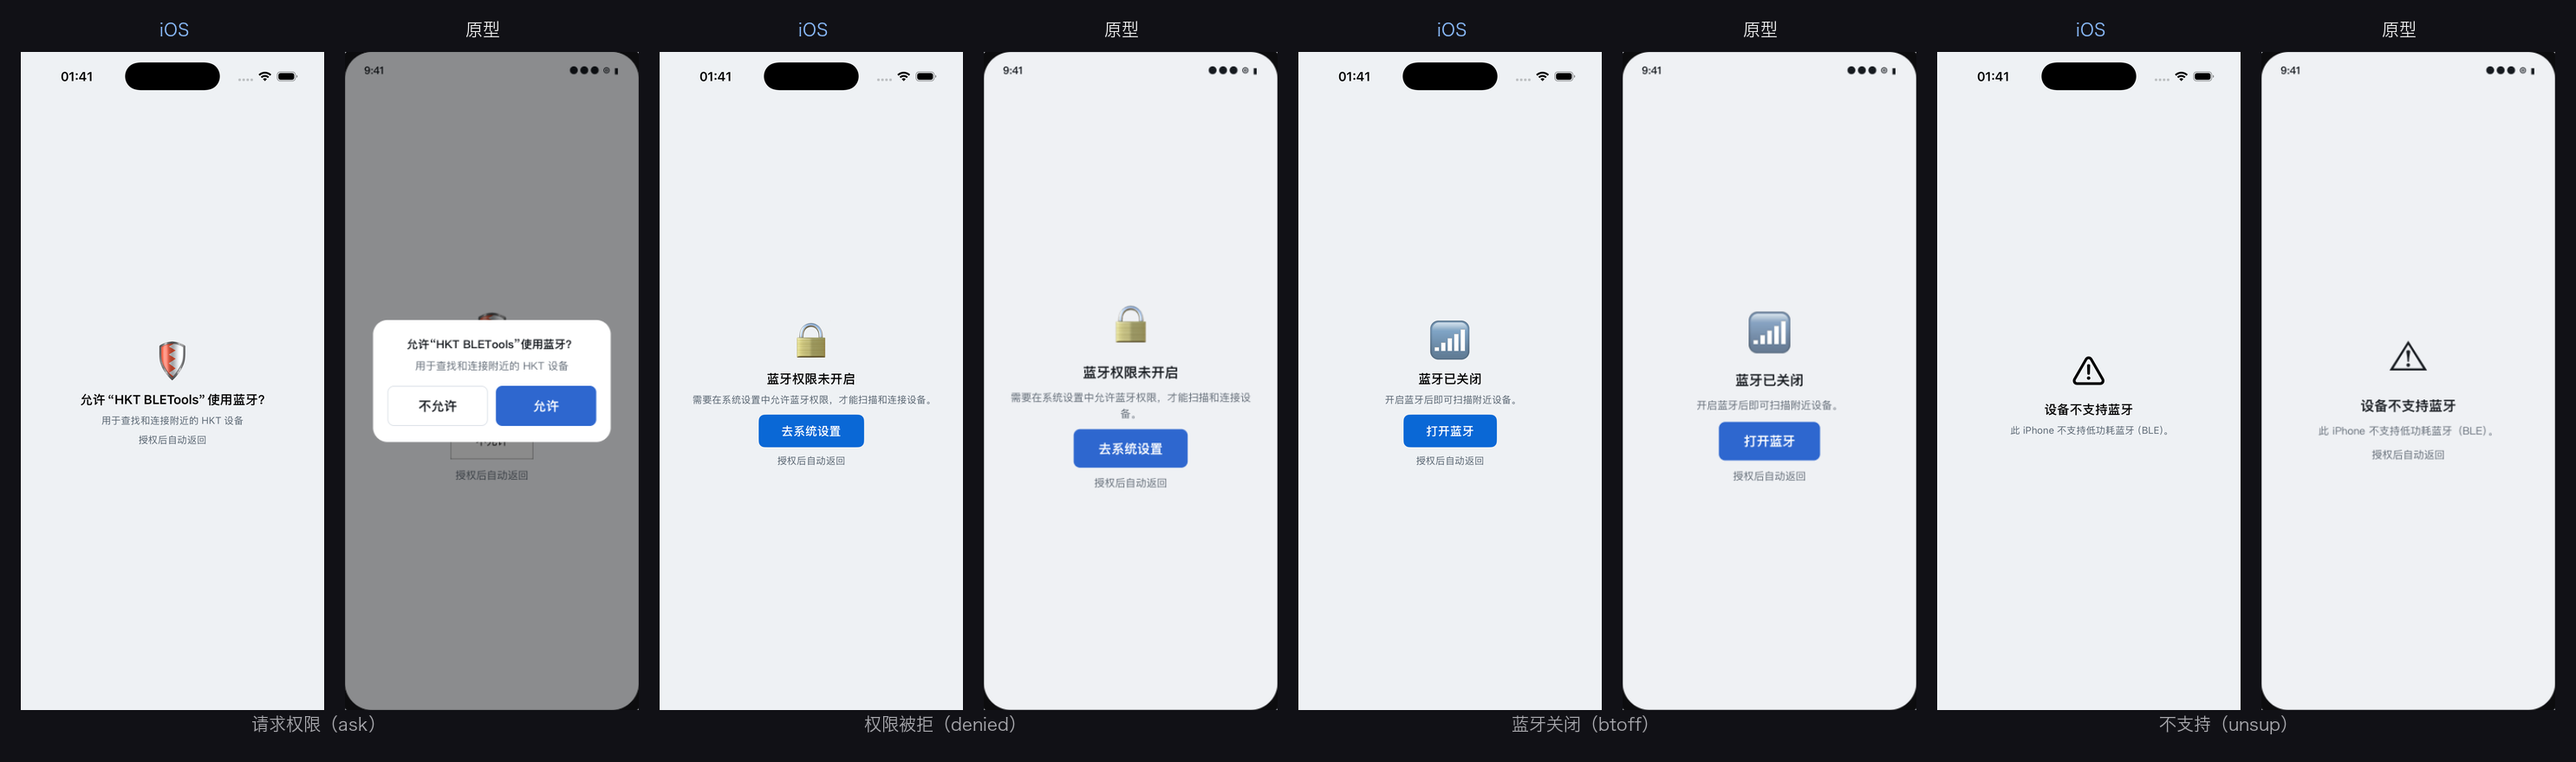
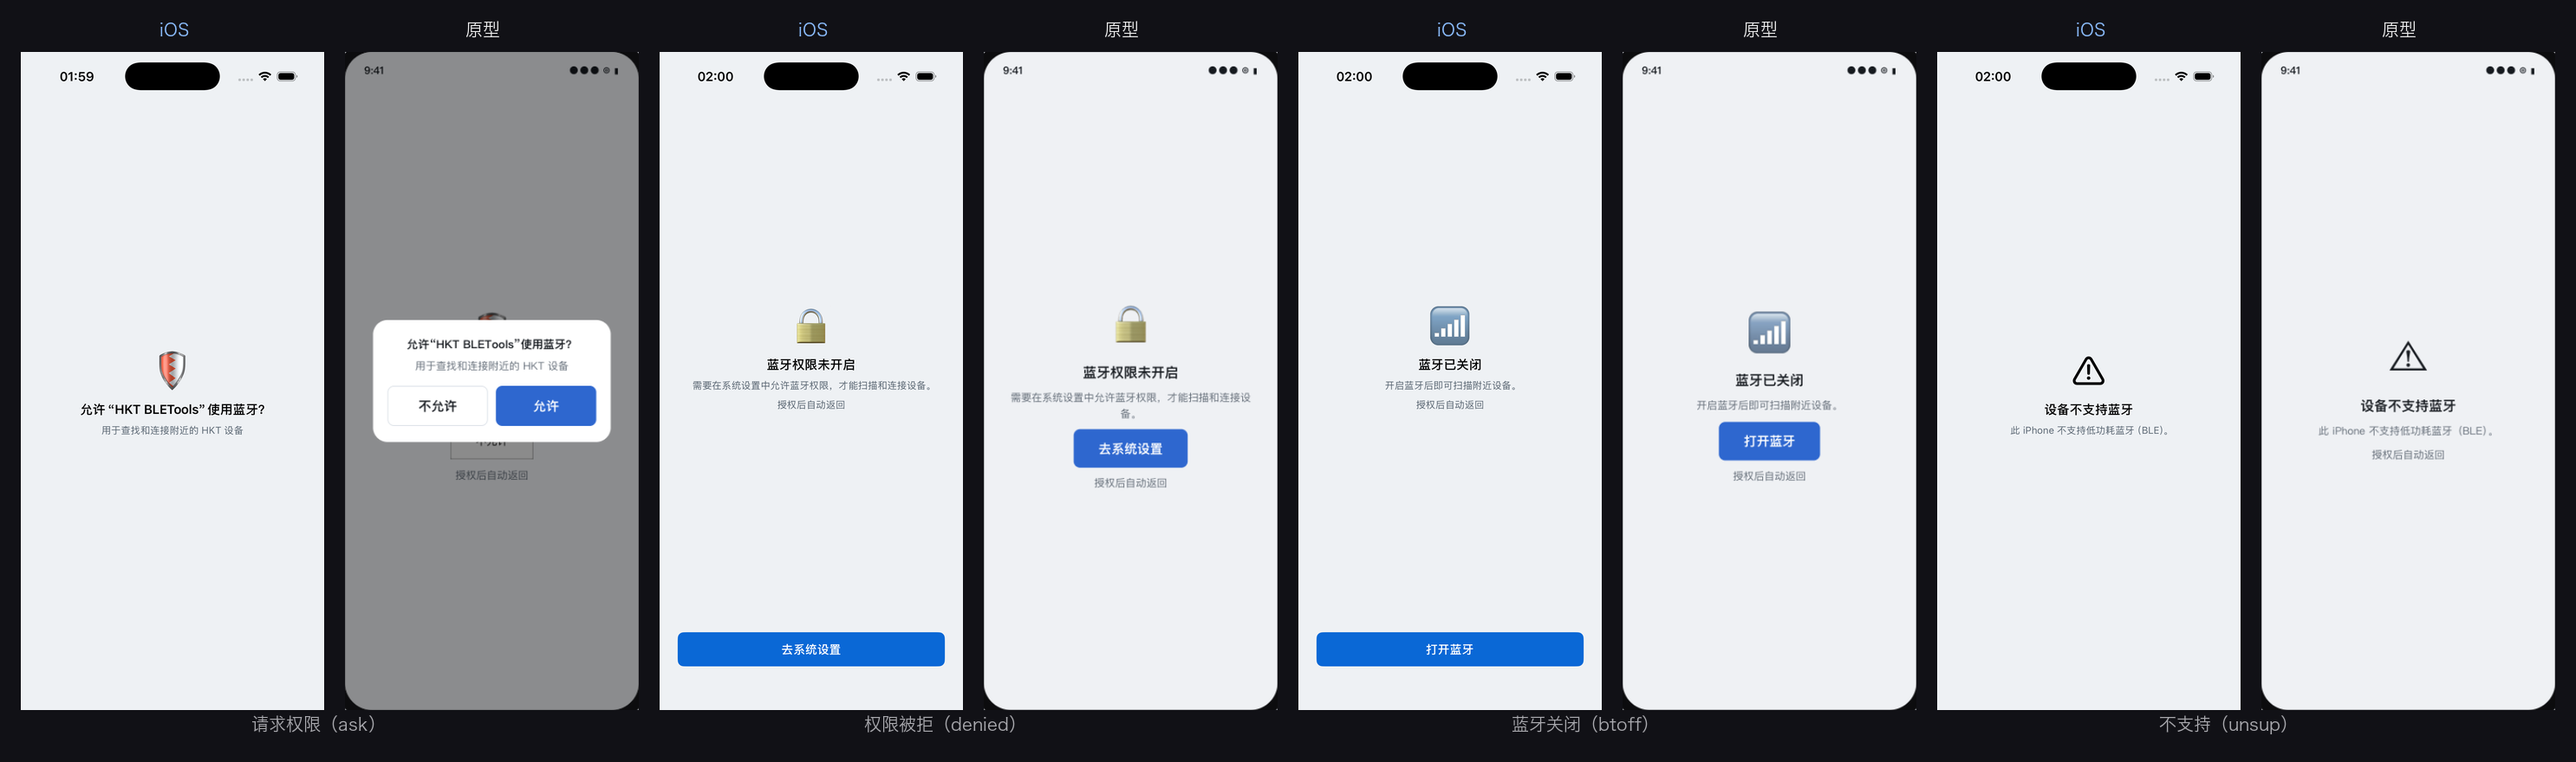
feat(ios): P-08 gate buttons full-width per user feedback
Gate buttons (go to settings / turn on bt) now share the P-02 cancel spec:
full-width, bottom-anchored (padding 24), padding 13 r8 16px/650 via
DialogButton primary - keeps single-primary-action emphasis and matches
dialog buttons. Gate layout moved to dedicated GateView (content centered,
button bottom); CenterStateView reverts to center-button form (footnote /
buttonPaddingH params removed). Spec card §1 updated with the ruling.

diff --git a/HKT-BLETools/ios/App/RootView.swift b/HKT-BLETools/ios/App/RootView.swift
@@ -10,39 +10,66 @@ struct RootView: View {
     var body: some View {
         switch model.availability {
         // P-08 ask 态：系统权限弹窗覆盖在门之上（原型自制弹窗由系统弹窗替代，规格卡 §5-1）
-        case .initializing: gate(icon: "🛡", title: zh ? "允许“HKT BLETools”使用蓝牙？" : "Allow “HKT BLETools” to use Bluetooth?",
-                                 subtitle: zh ? "用于查找和连接附近的 HKT 设备" : "Used to find and connect nearby HKT devices",
-                                 buttonTitle: nil, showAutoBack: true)
-        case .denied: gate(icon: "🔒", title: zh ? "蓝牙权限未开启" : "Bluetooth permission is off",
-                           subtitle: zh ? "需要在系统设置中允许蓝牙权限，才能扫描和连接设备。"
-                                        : "Enable Bluetooth permission in Settings to scan and connect devices.",
-                           buttonTitle: zh ? "去系统设置" : "Open Settings", showAutoBack: true)
-        case .poweredOff: gate(icon: "📶", title: zh ? "蓝牙已关闭" : "Bluetooth is off",
-                               subtitle: zh ? "开启蓝牙后即可扫描附近设备。" : "Turn Bluetooth on to scan nearby devices.",
-                               buttonTitle: zh ? "打开蓝牙" : "Turn On Bluetooth", showAutoBack: true)
-        case .unsupported: gate(icon: "⚠", title: zh ? "设备不支持蓝牙" : "Bluetooth unsupported",
-                                subtitle: zh ? "此 iPhone 不支持低功耗蓝牙（BLE）。" : "This iPhone doesn't support Bluetooth Low Energy.",
-                                buttonTitle: nil, showAutoBack: false)   // 规格卡 §5-2
+        case .initializing: GateView(icon: "🛡", title: zh ? "允许“HKT BLETools”使用蓝牙？" : "Allow “HKT BLETools” to use Bluetooth?",
+                                     subtitle: zh ? "用于查找和连接附近的 HKT 设备" : "Used to find and connect nearby HKT devices",
+                                     buttonTitle: nil, zh: zh)
+        case .denied: GateView(icon: "🔒", title: zh ? "蓝牙权限未开启" : "Bluetooth permission is off",
+                               subtitle: zh ? "需要在系统设置中允许蓝牙权限，才能扫描和连接设备。"
+                                            : "Enable Bluetooth permission in Settings to scan and connect devices.",
+                               buttonTitle: zh ? "去系统设置" : "Open Settings", zh: zh)
+        case .poweredOff: GateView(icon: "📶", title: zh ? "蓝牙已关闭" : "Bluetooth is off",
+                                   subtitle: zh ? "开启蓝牙后即可扫描附近设备。" : "Turn Bluetooth on to scan nearby devices.",
+                                   buttonTitle: zh ? "打开蓝牙" : "Turn On Bluetooth", zh: zh)
+        case .unsupported: GateView(icon: "⚠", title: zh ? "设备不支持蓝牙" : "Bluetooth unsupported",
+                                    subtitle: zh ? "此 iPhone 不支持低功耗蓝牙（BLE）。" : "This iPhone doesn't support Bluetooth Low Energy.",
+                                    buttonTitle: nil, zh: zh)   // 规格卡 §5-2：无按钮
         case .ready: ScanListView()
         }
-    }
-
-    /// P-08 门（规格卡 §1：图标 52 + 标题 17/600 + 副文案 13 + 主按钮 padding 12/30 + autoBack 行）。
-    private func gate(icon: String, title: String, subtitle: String,
-                      buttonTitle: String?, showAutoBack: Bool) -> some View {
-        CenterStateView(glyph: icon, glyphSize: 52,
-                        title: title,
-                        subtitle: subtitle,
-                        buttonTitle: buttonTitle ?? "",
-                        buttonPaddingH: 30,
-                        footnote: showAutoBack ? (zh ? "授权后自动返回" : "Returns automatically once granted") : nil,
-                        action: buttonTitle == nil ? {} : { openSystemSettings() })
-            .background(Theme.bg)
     }
 
     private func openSystemSettings() {
         guard let url = URL(string: UIApplication.openSettingsURLString) else { return }
         UIApplication.shared.open(url)
+    }
+}
+
+/// P-08 权限/蓝牙引导门（规格卡 P-08）。
+/// 布局=内容弹性居中（图标 52 + 标题 17/600 + 副文案 13 + autoBack 行）+
+/// 主按钮贴底全宽（用户 2026-09-10 裁决：与 P-02 取消同规格，复用 DialogButton）。
+private struct GateView: View {
+    let icon: String
+    let title: String
+    let subtitle: String
+    let buttonTitle: String?   // nil = 无按钮（ask 由系统弹窗承担、unsup 无操作）
+    let zh: Bool
+
+    var body: some View {
+        VStack(spacing: 0) {
+            VStack(spacing: 10) {
+                Text(icon).font(.system(size: 52))
+                Text(title).font(.hkt(17, .semibold)).multilineTextAlignment(.center)
+                Text(subtitle)
+                    .font(.hkt(13))
+                    .lineSpacing(1.5 * 13 - 13)
+                    .foregroundStyle(Theme.text2)
+                    .multilineTextAlignment(.center)
+                if buttonTitle != nil {
+                    Text(zh ? "授权后自动返回" : "Returns automatically once granted")
+                        .font(.hkt(13))
+                        .foregroundStyle(Theme.text2)
+                }
+            }
+            .padding(.horizontal, 32)
+            .frame(maxWidth: .infinity, maxHeight: .infinity)
+            if let buttonTitle {
+                DialogButton(title: buttonTitle, kind: .primary) {
+                    guard let url = URL(string: UIApplication.openSettingsURLString) else { return }
+                    UIApplication.shared.open(url)
+                }
+                .padding(24)
+            }
+        }
+        .background(Theme.bg)
     }
 }
 

diff --git a/HKT-BLETools/ios/DesignSystem/Components.swift b/HKT-BLETools/ios/DesignSystem/Components.swift
@@ -776,8 +776,6 @@ struct CenterStateView: View {
     let buttonTitle: String
     var secondaryButton = false    // .btn secondary：card 底 line 描边 text 字（如空态「重新扫描」）
     var fillsRemaining = true      // true=撑满剩余空间（整页早退视图）；false=内容高（滚动区空态）
-    var buttonPaddingH: CGFloat = 34   // 原型按钮横向 padding：P-03 早退=34、P-08 门=30
-    var footnote: String?          // 按钮后的补充行（.sub 13px text2，如「授权后自动返回」）
     let action: () -> Void
 
     var body: some View {
@@ -801,7 +799,7 @@ struct CenterStateView: View {
                         .font(.hkt(16, .semibold))
                         .foregroundStyle(secondaryButton ? Theme.text : .white)
                         .padding(.vertical, secondaryButton ? 10 : 12)
-                        .padding(.horizontal, secondaryButton ? 26 : buttonPaddingH)
+                        .padding(.horizontal, secondaryButton ? 26 : 34)
                         .background(secondaryButton ? Theme.card : Theme.info,
                                     in: RoundedRectangle(cornerRadius: Theme.controlRadius))
                         .overlay {
@@ -812,11 +810,6 @@ struct CenterStateView: View {
                         }
                 }
                 .padding(.top, 2)
-            }
-            if let footnote {
-                Text(footnote).font(.hkt(13))
-                    .foregroundStyle(Theme.text2)
-                    .multilineTextAlignment(.center)
             }
         }
         .padding(.horizontal, 32)

diff --git a/HKT-BLETools/docs/ios/design/ui-spec/P-08.md b/HKT-BLETools/docs/ios/design/ui-spec/P-08.md
@@ -5,16 +5,19 @@
 
 ---
 
-## 1. 页面结构（四态共用 .center 模板）
+## 1. 页面结构（四态共用模板；按钮布局经用户 2026-09-10 裁决调整）
 
 ```
-.center（撑满，gap 10，水平 padding 32，弹性居中）
-  ├─ 图标 52px
-  ├─ 标题（.big 17px/600）
-  ├─ 副文案（.sub 13px text2 行高1.5）
-  ├─ [可选] 主按钮（.btn 自适应宽 padding 12 30）
-  └─ [可选] autoBack 行（.sub 13px text2「授权后自动返回」）
+VStack（全屏 --bg）
+  ├─ 内容块（弹性居中，gap 10，水平 padding 32）
+  │    ├─ 图标 52px
+  │    ├─ 标题（.big 17px/600）
+  │    ├─ 副文案（.sub 13px text2 行高1.5）
+  │    └─ [有按钮时] autoBack 行（.sub 13px text2「授权后自动返回」）
+  └─ [可选] 主按钮（贴底、全宽、左右 padding 24）
 ```
+
+**按钮规格（用户 2026-09-10 裁决）**：与 P-02「取消」同规格——全宽、padding 13、r8、16px/650、复用 DialogButton；底色取 primary（info 蓝底白字），与对话框主按钮（切换并连接）同体系，保持页面唯一主操作的引导力。原型原为居中小按钮（自适应宽 padding 12 30），已按裁决改全宽。
 
 ## 2. 四态定义
 
@@ -25,7 +28,7 @@
 | btoff（蓝牙关闭） | 📶 | 蓝牙已关闭 | 开启蓝牙后即可扫描附近设备。 | 打开蓝牙（primary） | 有 |
 | unsup（不支持） | ⚠ | 设备不支持蓝牙 | 此 iPhone 不支持低功耗蓝牙（BLE）。 | 无 | **无**（§5-2） |
 
-- 主按钮 `.btn`（info 底白字 16px/650 r8）自适应宽 padding `12 30`；denied/btoff 点击=打开系统设置/蓝牙设置，授权后回前台自动重扫（原型 autoBack 语义）。
+- 主按钮：全宽 primary（info 底白字 16px/650 r8，贴底 padding 24，规格=§1 用户裁决）；denied/btoff 点击=打开系统设置，授权后回前台自动重扫（原型 autoBack 语义）。
 
 ## 3. iOS 状态映射
 
